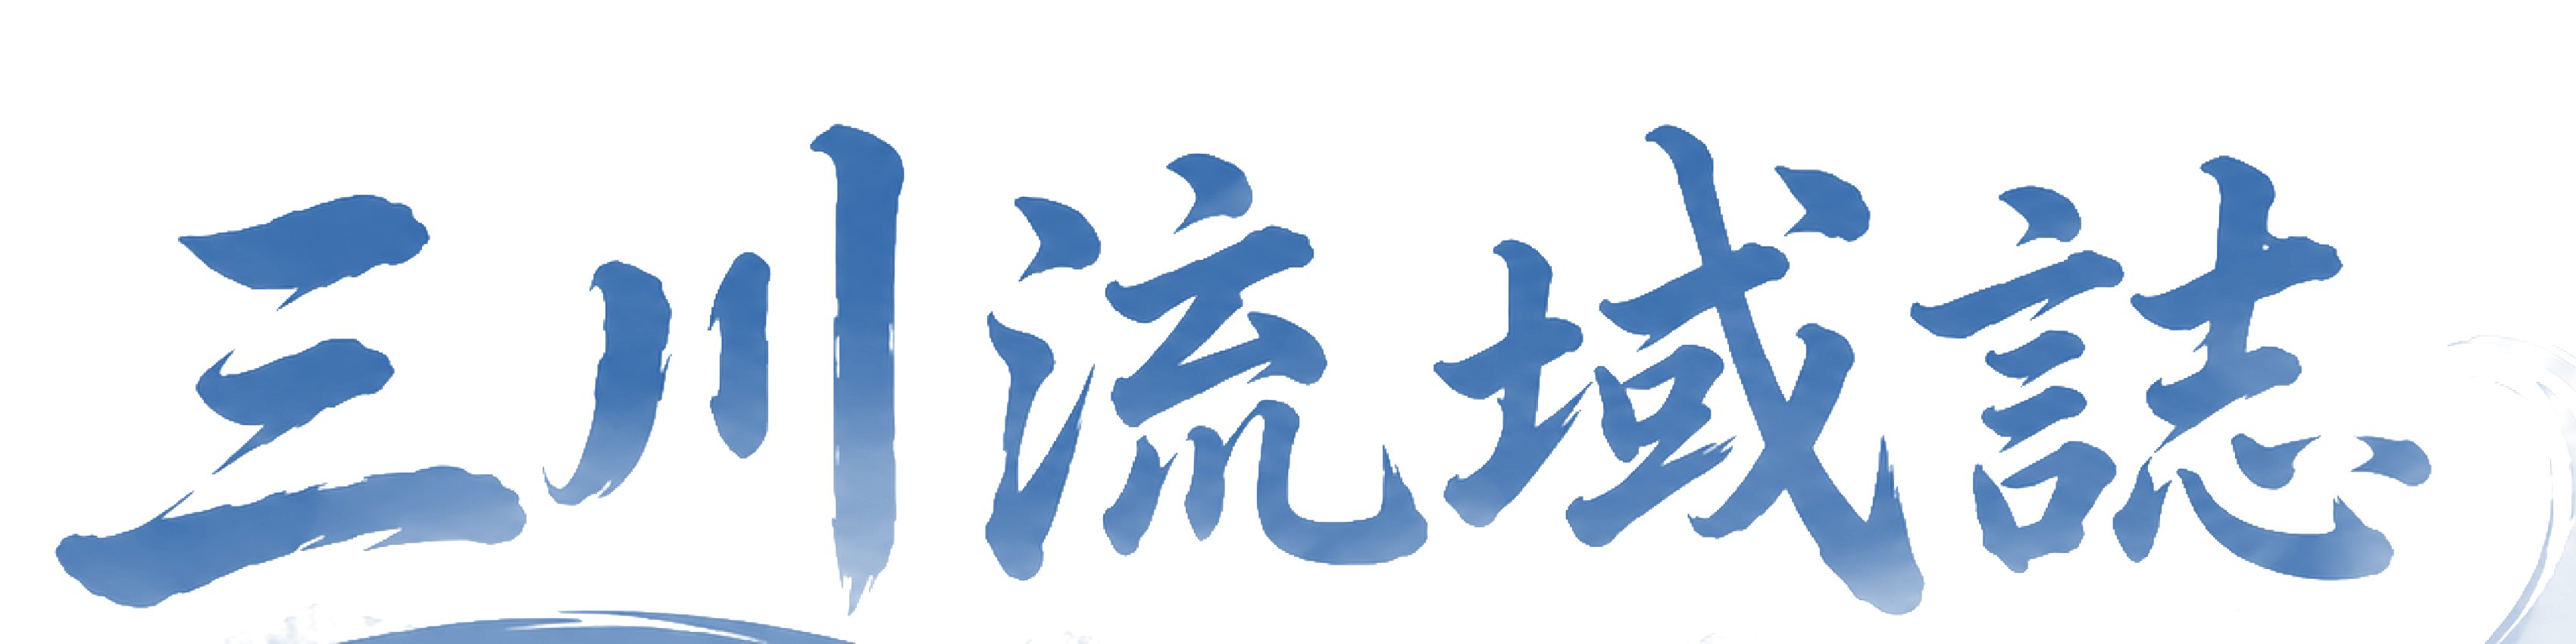
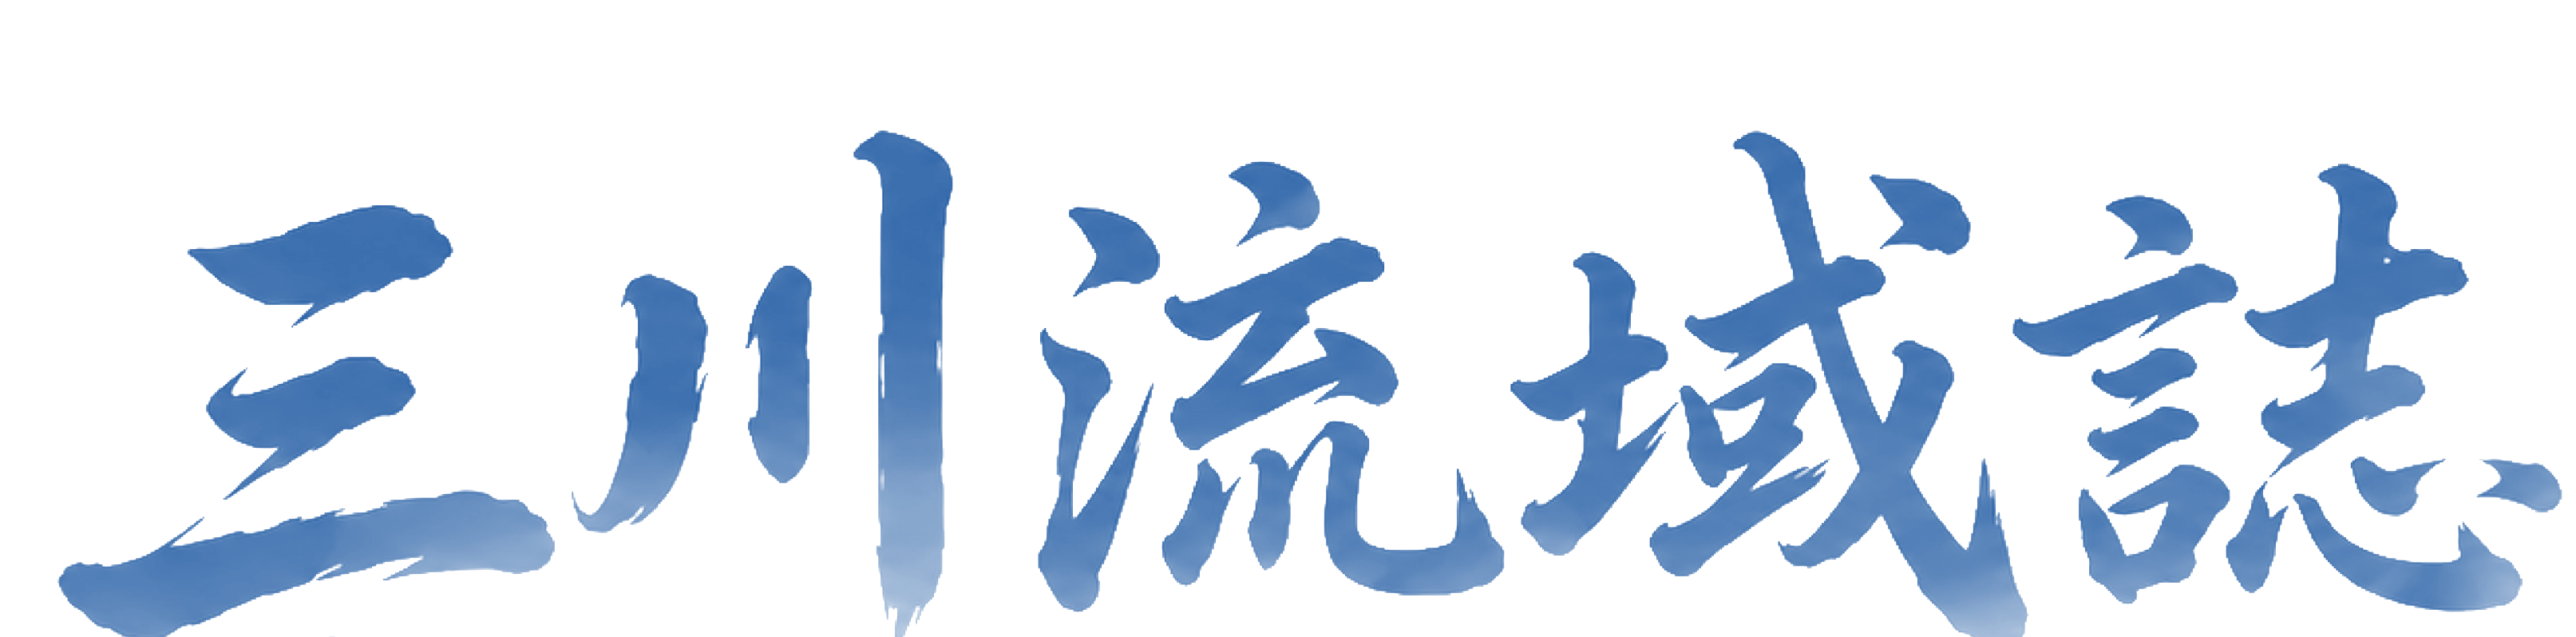
Tighten crop on title SVG to remove artifacts and increase maximum size

Changed region(s): [[0.0, 0.1805, 1.0, 1.0], [0.062, 0.3008, 0.1859, 0.5113]]

diff --git a/style.css b/style.css
@@ -149,7 +149,7 @@ a {
 
 .title-img {
     width: 100%;
-    max-width: 900px;
+    max-width: 1100px;
     height: auto;
     object-fit: contain;
     filter: drop-shadow(2px 5px 15px rgba(255,255,255,0.8));

diff --git a/generate_svgs.py b/generate_svgs.py
@@ -29,6 +29,7 @@ def generate_svg_from_img(img_path, out_path, box, fill_color):
             f.write(f'  <path d="{path}" fill="{fill_color}" fill-rule="evenodd"/>\n')
         f.write('</svg>\n')
 
-generate_svg_from_img('_raw_materials/三川流域誌（首頁）.jpg', 'assets/title.svg', (1200, 400, 4600, 1250), '#094a9a')
+# Tighter crop to avoid the swoosh on the bottom and navigation on the right
+generate_svg_from_img('_raw_materials/三川流域誌（首頁）.jpg', 'assets/title.svg', (1700, 450, 4100, 1050), '#094a9a')
 generate_svg_from_img('_raw_materials/三川流域誌（首頁）.jpg', 'assets/badge_text.svg', (300, 1800, 1500, 2200), '#094a9a')
 print('SVGs generated successfully')